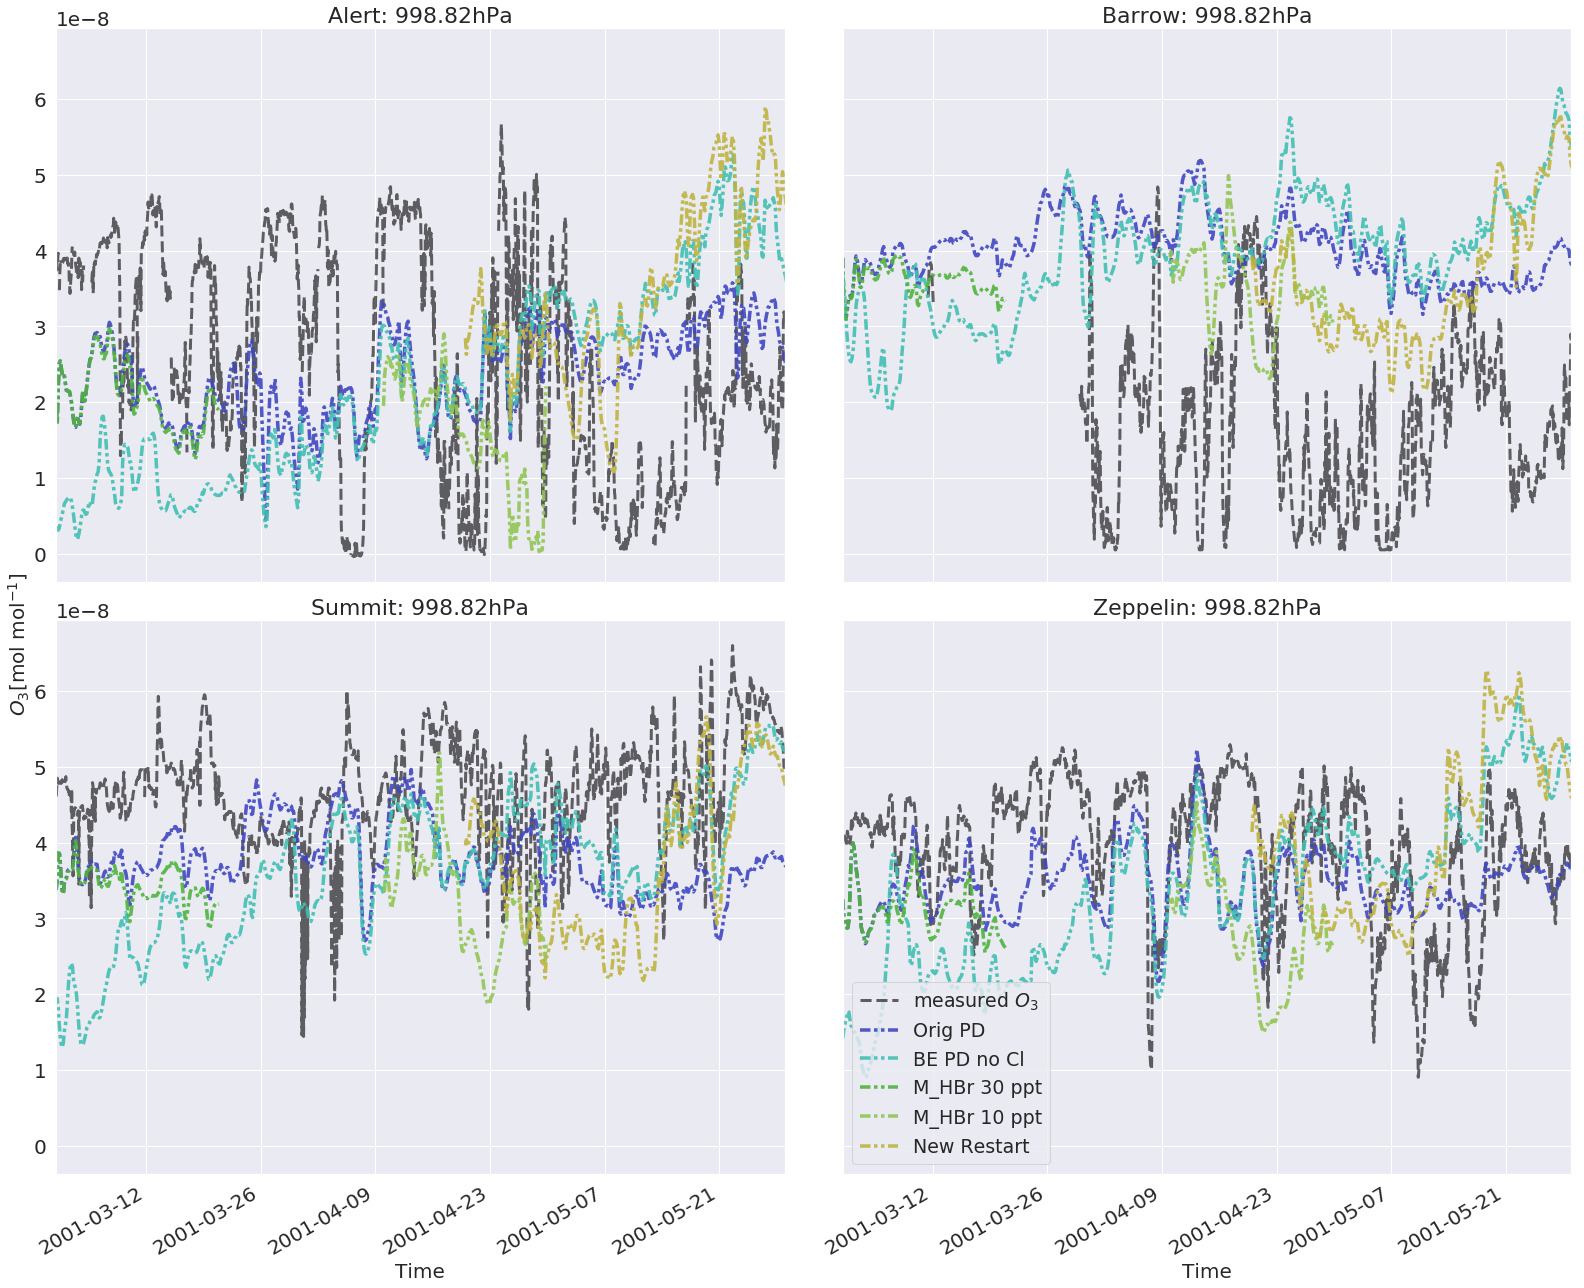
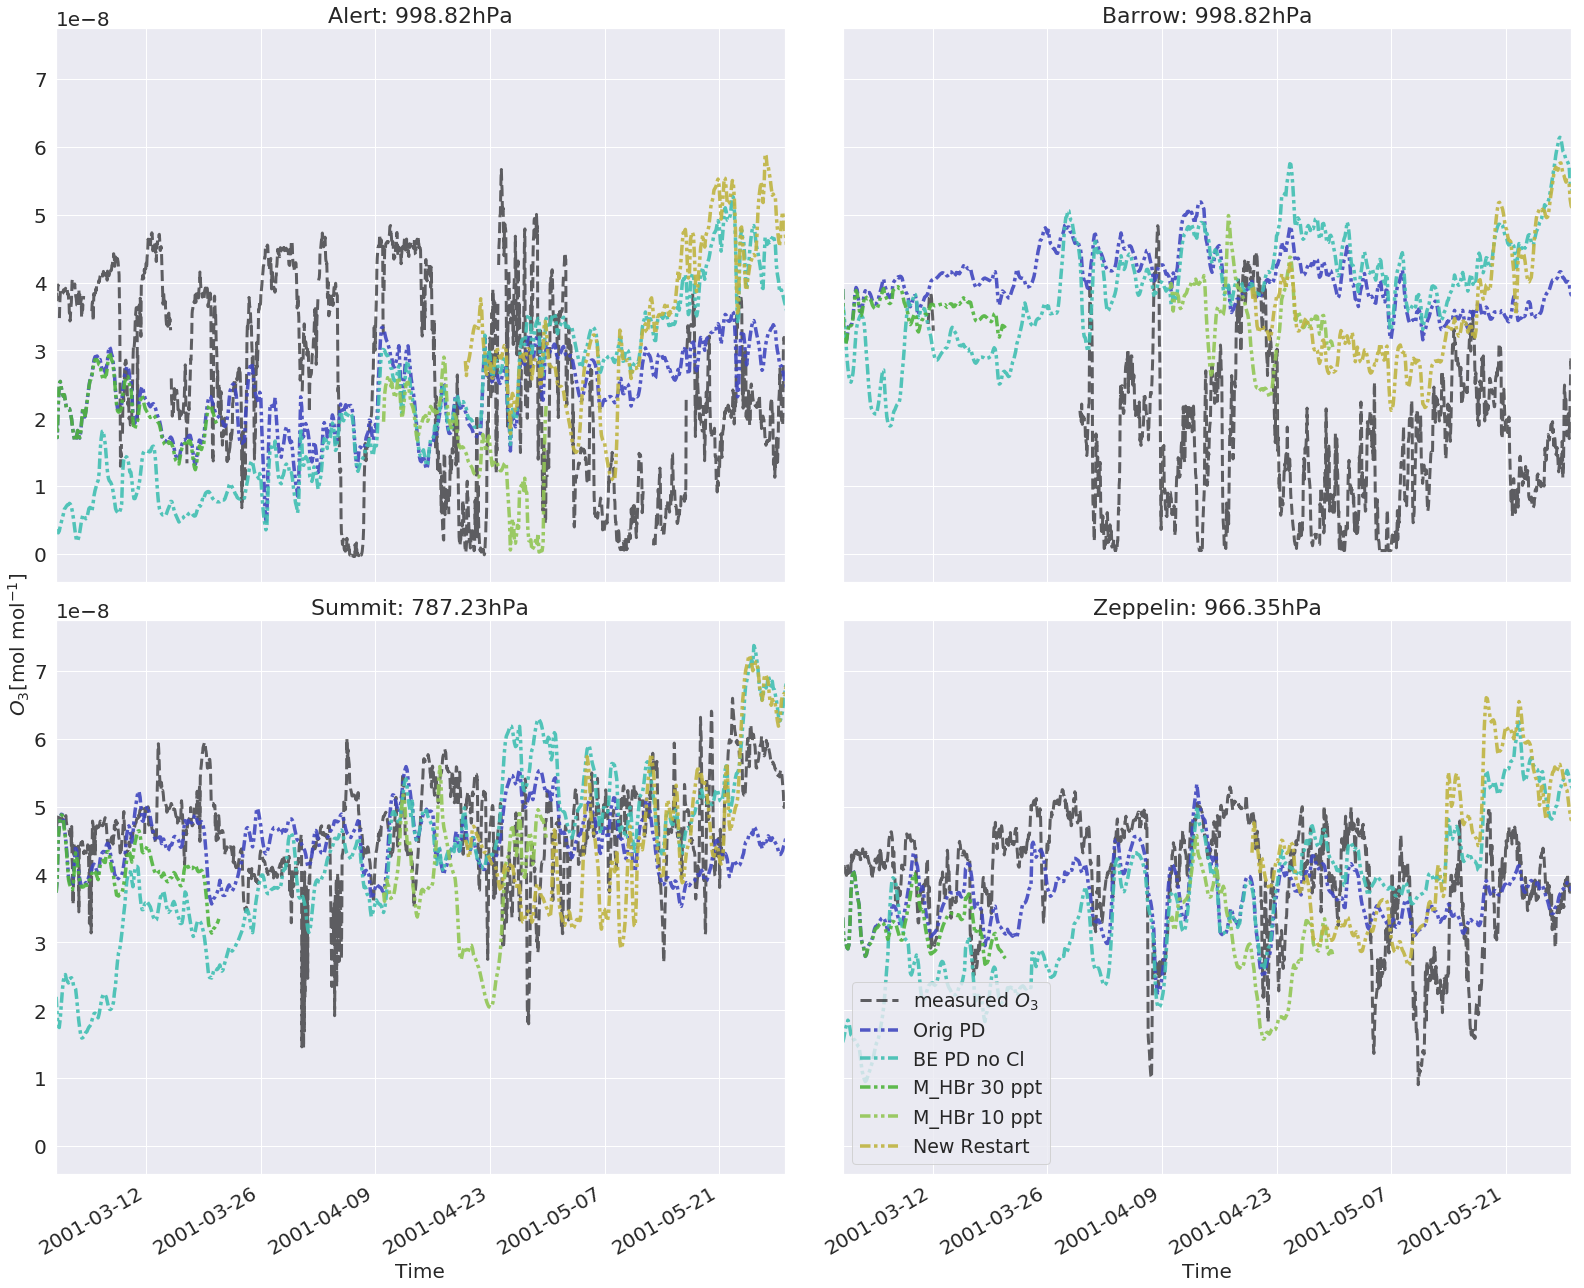
6/5/20

diff --git a/Chapter6_Results/Results.tex b/Chapter6_Results/Results.tex
@@ -63,7 +63,7 @@ Figure \ref{fig:vertHBr_noCl} shows the vertical column above the Alert, Barrow,
 
 \medskip
 
-In Figure \ref{fig:polarBrO_noCl}, the vertical column density for the lowermost $\sim$ 250 m is plotted. The column density is on the order $10^{5} molecules cm^{-2}$
+In Figure \ref{fig:polarBrO_noCl}, the vertical column density for the lowermost $\sim$ 250 m is plotted. The column density is on the order $10^{6}$ molecules cm$^{-2}$
 
 %In the vertical, the corresponding $\chem{Br_y}$ concentrations to Figure \ref{fig:test_RemoveHetReacts} are shown in Figures \ref{fig:vert_noAer_bry_2001}-\ref{fig:vert_noBr_bry_2001} for the four new branches, Branch \ref{def:BE_PD_noAerosol}-\ref{def:BE_PD_noBr}, respectively (The $\chem{Br_y}$-family is explained in Section \ref{sec:halogen_families_BryClxCly}). 
 
@@ -98,7 +98,7 @@ In Figure \ref{fig:polarBrO_noCl}, the vertical column density for the lowermost
 
 \subsection{Development of Branch \ref{def:BE_PD_noCl} Without Heterogeneous Chlorine Reactions}
 
-\subsubsection{Initializing Branch \ref{def:BE_PD_noCl} With a Higher \chem{HBr} Concentration}
+\subsubsection{Initializing Branch \ref{def:BE_PD_noCl} With a Higher \chem{HBr} Concentration}\label{sec:step2_result}
 
 In order to boost the concentration of \chem{HBr}, the concentration was hard-coded to 30 ppt ($= 8.059\cdot10^8 \text{molecules}cm^{-3}$ at $273.15 K$) and 10 ppt ($= 2.69\cdot10^8 \text{molecules}cm^{-3}$ at $273.15 K$), respectively, in the first sub-timestep of \texttt{pchemc\_ij.f90}. Further, a run initialized with a restart file from the 10 ppt run was performed in which the hard-coded concentration of \chem{HBr} was removed.
 
@@ -106,25 +106,95 @@ In order to boost the concentration of \chem{HBr}, the concentration was hard-co
 
 Figure \ref{fig:ozone_noCl_step2} contains results from different attempts to boost the \chem{HBr}-concentration, to see the effect on ozone depletion. The first test, in which the concentration of \chem{HBr} was constantly boosted by hard-coding to maintain 30 ppt (green line), results in mixing ratios of $\chem{O_3}$ comparable to the original CTM3-branch (blue line). In the second test, the \chem{HBr}-concentration was hard-coded to 10 ppt (light green line), which results in concentrations more comparable to the measurements. Lastly, the test in which the run was initiated with a restart file from the previous hard-coded test (\chem{HBr} concentration of 10 ppt) (yellow line) also maintains concentrations comparable in magnitude with the observations. All these tests were ran for a short amount of time. 
 
-
-\medskip
-
-Figure \ref{fig:vertHBr_newRestart} contains the resulting \chem{HBr}-column above Alert, Barrow, Summit and Zeppelin up to approximately $600 hPa$. The mixing ratio is on the order of $25 - 250$ ppt maximum. The higher concentrations appear to be constrained to the lower layers of the troposphere to various extents. In the lowest layer, Figure \ref{fig:polarHBr_newRestart} shows that the concentrations are on the order of $7.5\cdot10^{-7} - 1.5\cdot10^{-6} gm^{-3}$. 
-
-\medskip
-
-The polar \chem{BrO}-column depicted in Figure \ref{fig:polarBro_newRestart} shows a \acrshort{vcd} on the order of $10^6 \text{molecules } cm^{-2}$. 
-
 \input{Chapter6_Results/images/ozone_noCl_step2}
+
+\medskip
+
+Figure \ref{fig:vertHBr_newRestart} contains the resulting \chem{HBr}-column above Alert, Barrow, Summit and Zeppelin up to approximately $600$ hPa. The mixing ratio is on the order of $25 - 250$ ppt maximum. The higher concentrations appear to be constrained to the lower layers of the troposphere to various extents. In the lowest layer, Figure \ref{fig:polarHBr_newRestart} shows that the concentrations are on the order of $7.5\times10^{-7} - 1.5\times10^{-6}$gm$^{-3}$. Seen in relation with Figure \ref{fig:polarHOBr_newRestart}, \ref{fig:polarHBr_newRestart} is very anti-correlated. 
+
 
 \input{Chapter6_Results/images/vertHBr_newRestart}
 
 \input{Chapter6_Results/images/polarHBr_newRestart}
 
+\input{Chapter6_Results/images/polarHOBR_newRestart}
+
+\medskip
+
+The polar \chem{BrO}-column depicted in Figure \ref{fig:polarBro_newRestart} shows a \acrshort{vcd} on the order of $10^7 \text{molecules }$ cm$^{-2}$. 
+
+
 \input{Chapter6_Results/images/polarBrO_newRestart}
 
 
+\subsubsection{Hard-Coding Photodissociation and Adjusting the Henry'Law Coefficient}\label{sec:res_HDP_H}
 
+Figure \ref{fig:ozone_2001_step3} contains the modelled results from four new tests, whereas the original CTM3-run and the New Restart run was maintained from the previous section. Firstly, the Hard-coded P test was performed by hard-coding the photodissociation rates in \texttt{pchemc\_ij.f90}. In addition to this, two reactions were added in an attempt to better cycle the \chem{HOBr} and \chem{HBr} to avoid the anti-correlation seen in Figures \ref{fig:polarHBr_newRestart}-\ref{fig:polarHOBr_newRestart}:  
+
+\begin{reaction}
+    \chem{Br_2} + \chem{OH} \rightarrow \chem{HOBr} + \chem{Br}
+    \label{rqn:oh_br2}
+\end{reaction}
+
+
+\begin{reaction}
+    \chem{HBr} + \chem{OH} \rightarrow \chem{H_2O} + \chem{Br}
+    \label{rqn:oh_hbr}
+\end{reaction}
+
+The hard-coded photodissociation rates had not previously calculated for Reactions \ref{R:18}, \ref{R:20} and \ref{R:12}. These were previously set to be solved by the fast-JX method (see Section \ref{sec:CTM3_photochemistry}), but this had not worked. Instead, these were hard-coded as was done previously (by \cite{Susanne}) for Reactions \ref{R:19} and \ref{R:1}. The photodissociation rates were set to: 
+
+\begin{itemize}
+    \item $3\cdot10^{-4} s^{-1}$ for Reaction \ref{R:18} (value from \cite{CAO})
+    \item $0.014 s^{-1}$ for Reaction \ref{R:20}(value from \cite{CAO})
+    \item $0.05\cdot10^{-8} s^{-1}$ for Reaction \ref{R:12} (value from \cite{Papanastasiou2013}, Arctic spring dissociation rate, Figure 2, p. 3022)
+\end{itemize}
+
+
+%Testen viser bedring, men \chem{HBr} er fortsatt altfor høy- for treig våtavsetning? 
+
+In the subsequent tests, the hard-coded photodissociation rates were included. These were concerning the Henry-coefficient (see Section \ref{sec:wet_dep_henrys_law}) which was initially implemented with the wrong units. The New H - low test was performed with: 
+
+
+\begin{itemize}
+    \item \chem{HBr}: $7.2\cdot 10^{-1} [M/amt]$, $6100 K$ (Taken from: \cite{Chameides1992})
+    \item \chem{HCl}: $1.9\cdot10^1 [M/atm]$, $600 K$ (Taken from: \cite{dean1999})
+\end{itemize}
+
+The New H- high test was performed with:  
+
+\begin{itemize}
+    \item \chem{HBr}: $2.5 \cdot 10^{1} [M/amt]$, $370 K$ (Taken from: \cite{dean1999})
+    \item \chem{HCl}: $1.9\cdot10^1 [M/atm]$, $600 K$ (Taken from: \cite{dean1999})
+\end{itemize}
+
+Finally, the latter was tested with a higher resolution (HTWO). 
+
+\medskip
+
+Figure \ref{fig:ozone_2001_step3} shows that the new tests ozone produce a lower mixing ratio than both the original CTM3 and the New Restart-test from the previous section. They also produce lower ozone concentrations at the stations compared to measurements. 
+
+%Fin ODE klokka 21 den 29/3! Høye Br og BrO og lav ozon! (fil 88) 
+
+
+\input{Chapter6_Results/images/ozone_2001_step3}
+
+\medskip
+
+\ref{fig:vertHBr_HFOUR_step3} and \ref{fig:vertHBr_HTWO_step3} contains the vertical column of the \chem{HBr} mixing ratio at \texttt{HFOUR} and \texttt{HTWO} resolution, respectively. The mixing ratio remains around $3\times10^{-10}$ mol mol$^{-1} \sim 300 ppt$ for both the tests. Likewise, Figures \ref{fig:polarHBr_HFOUR_step3}-\ref{fig:polarHBr_HTWO_step3} contains concentrations of \chem{HBr} on the order of $6\times10^{-6} $g m$^{-3}$
+
+\input{Chapter6_Results/images/vertHBr_HFOUR_step3}
+\input{Chapter6_Results/images/vertHBr_HTWO_step3}
+
+\input{Chapter6_Results/images/polarHBr_HFOUR_step3}
+\input{Chapter6_Results/images/polarHBr_HTWO_step3}
+
+\medskip
+
+
+
+\input{Chapter6_Results/images/polarBrO_HFOUR_step3}
+\input{Chapter6_Results/images/polarBrO_HTWO_step3}
 
 %\subsubsection{Changing $L_{mix}$ in Reaction \ref{R:7}}
 
@@ -153,69 +223,34 @@ The polar \chem{BrO}-column depicted in Figure \ref{fig:polarBro_newRestart} sho
 
 %\subsubsection{Lmix = 100, with new restart file}
 
-C3RUN\_BE\_HFOUR\_HBr10ppt\_May
+%C3RUN\_BE\_HFOUR\_HBr10ppt\_May
 
-Figur med HOBr og HBr - antikorrelert. Null effekt på ozon, hot spots med Br, BrO og Br2. 
+%Figur med HOBr og HBr - antikorrelert. Null effekt på ozon, hot spots med Br, BrO og Br2. 
 
-The anticorrelation of \chem{HOBr} and \chem{HBr} indicates that \chem{HOBr} is titrated from the system, leaving hot spots of \chem{HBr}. 
+%The anticorrelation of \chem{HOBr} and \chem{HBr} indicates that \chem{HOBr} is titrated from the system, leaving hot spots of \chem{HBr}. 
 
 %\subsubsection{Lmix = 50, with new restart file}
 
-Still anti-correlation between \chem{HOBr} and \chem{HBr}. Maybe a bit less $\chem{O_3}$? 
+%Still anti-correlation between \chem{HOBr} and \chem{HBr}. Maybe a bit less $\chem{O_3}$? 
 
-vd = 0.0074 
+%vd = 0.0074 
 
-C3RUN\_BE\_HFOUR\_HBr10ppt\_Lmix50\_May
+%C3RUN\_BE\_HFOUR\_HBr10ppt\_Lmix50\_May
 
-\subsubsection{Lmix = 25, with new restart file}
+%\subsubsection{Lmix = 25, with new restart file}
 
-vd = 0.00824
+%vd = 0.00824
 
-C3RUN\_BE\_HFOUR\_HBr10ppt\_Lmix25\_May
-
-
-\subsubsection{Lmix = 100, cycling of \chem{HOBr} and \chem{HBr} and hard-coded photodissociation rates}
-
-C3RUN\_BE\_HFOUR\_HBr10ppt\_Lmix100\_ohbr2 - test run with the reaction: 
-
-\begin{reaction}
-    \chem{Br_2} + \chem{OH} \rightarrow \chem{HOBr} + \chem{Br}
-    \label{rqn:oh_br2}
-\end{reaction}
-
-C3RUN\_BE\_HFOUR\_HDP\_MarchMay - long run with the reaction: 
-
-\begin{reaction}
-    \chem{HBr} + \chem{OH} \rightarrow \chem{H_2O} + \chem{Br}
-    \label{rqn:oh_hbr}
-\end{reaction}
-
-As well as hard-coded photodissociation rates as it turned out the rates were not previously calculated for Reactions \ref{R:18}, \ref{R:20} and \ref{R:12}. These were previously set to be solved by the fast-JX method (see Section \ref{sec:CTM3_photochemistry}), but this had not worked. Instead, these were hard-coded as was done previously (by \cite{Susanne}) for Reactions \ref{R:19} and \ref{R:1}. The photodissociation rates were set to: 
-
-\begin{itemize}
-    \item $3\cdot10^{-4} s^{-1}$ for Reaction \ref{R:18} (value from \cite{CAO})
-    \item $0.014 s^{-1}$ for Reaction \ref{R:20}(value from \cite{CAO})
-    \item $0.05\cdot10^{-8} s^{-1}$ for Reaction \ref{R:12} (value from \cite{Papanastasiou2013}, Arctic spring dissociation rate, Figure 2, p. 3022)
-\end{itemize}
+%C3RUN\_BE\_HFOUR\_HBr10ppt\_Lmix25\_May
 
 
-Testen viser bedring, men \chem{HBr} er fortsatt altfor høy- for treig våtavsetning? 
+%\subsubsection{Lmix = 100, cycling of \chem{HOBr} and \chem{HBr} and hard-coded photodissociation rates}
 
-\subsubsection{Lmix = 100, new Henry's law constants for \chem{HBr} and \chem{HCl}}\label{sec:new_henrys_law}
+%C3RUN\_BE\_HFOUR\_HBr10ppt\_Lmix100\_ohbr2 - test run with the reaction: 
 
-New values for Henry's law constants were applied to fix the high concentrations seen in \chem{HBr}. The values were taken from \cite{dean1999}:
+%\subsubsection{Test at HTWO}
 
-\begin{itemize}
-    \item \chem{HBr}: $2.5 \cdot 10^{1} [M/amt]$, $370 K$
-    \item \chem{HCl}: $1.9\cdot10^1 [M/atm]$, $600 K$ 
-\end{itemize}
-
-Fin ODE klokka 21 den 29/3! Høye Br og BrO og lav ozon! (fil 88) 
-
-
-\subsubsection{Test at HTWO}
-
-This was with both hard-coded photodissosiation rates and higher Henry coefficient C3RUN\_BE\_HTWO\_HX\_HDP\_MarchApril
+%This was with both hard-coded photodissosiation rates and higher Henry coefficient C3RUN\_BE\_HTWO\_HX\_HDP\_MarchApril
 
 \section{Comparison between the PD- and PI-branches}
 

diff --git a/Chapter6_Results/images/polarBrO_newRestart.tex b/Chapter6_Results/images/polarBrO_newRestart.tex
@@ -1,6 +1,6 @@
 \begin{figure}[h]
     \centering
     \includegraphics[width=\linewidth]{Chapter6_Results/images/polarBro_newRestart.png}
-    \caption{Vertical column density ($molecules cm^{-2}$) of \chem{BrO} in the lowermost $\sim 250 m$ at 12:00 and 00:00 (UTC) on the 20th, 21st and 22nd of April, 2001. The result is from Branch \ref{def:BE_PD_noCl} initialized with a new restart file with a \chem{HBr} concentration of 10 ppt. The red dots are the positions of the stations with observations in 2001 (see the map in Figure \ref{fig:stns} for reference)}
+    \caption{Vertical column density ($molecules cm^{-2}$) of \chem{BrO} in the lowermost $\sim 250 m$ at 18:00 and 06:00 (UTC) on the  2nd, 3rd and 4th of May, 2001. The result is from Branch \ref{def:BE_PD_noCl} initialized with a new restart file with a \chem{HBr} concentration of 10 ppt. The red dots are the positions of the stations with observations in 2001 (see the map in Figure \ref{fig:stns} for reference)}
     \label{fig:polarBro_newRestart}
 \end{figure}

diff --git a/Chapter6_Results/images/polarHBr_newRestart.tex b/Chapter6_Results/images/polarHBr_newRestart.tex
@@ -1,6 +1,6 @@
 \begin{figure}[h]
     \centering
     \includegraphics[width=\linewidth]{Chapter6_Results/images/polarHBr_newRestart.png}
-    \caption{Concentration ($g m^{-3}$) of \chem{HBr} in the first model layer the Arctic at 12:00 and 00:00 (UTC) of the 20th, 21st and 22nd of April, 2001. The result is from Branch \ref{def:BE_PD_noCl} initialized with a new restart file with a \chem{HBr} concentration of 10 ppt. The red dots are the positions of the stations with observations in 2001 (see the map in Figure \ref{fig:stns} for reference)}
+    \caption{Concentration ($g m^{-3}$) of \chem{HBr} in the first model layer the Arctic at 18:00 and 06:00 (UTC) of the 2nd, 3rd and 4th of May, 2001. The result is from Branch \ref{def:BE_PD_noCl} initialized with a new restart file with a \chem{HBr} concentration of 10 ppt. The red dots are the positions of the stations with observations in 2001 (see the map in Figure \ref{fig:stns} for reference)}
     \label{fig:polarHBr_newRestart}
 \end{figure}

diff --git a/Chapter6_Results/images/ozone_2001_step3.tex b/Chapter6_Results/images/ozone_2001_step3.tex
@@ -1,0 +1,6 @@
+\begin{figure}[ht]
+    \centering
+    \includegraphics[width=\linewidth]{Chapter6_Results/images/ozone_2001_step3.png}
+    \caption{Ozone measurements (black line) and model results from the original CTM3 (blue line) (these two are the same as in Figure \ref{fig:test_RemoveHetReacts}), test with new restart file from Section \ref{sec:step2_result} (orange line), hard-coded photodissociation rates (green line), new (low) Henry's law constant of $7.2\times10^{-1} M atm ^{-1}$ and $6100 K$ (pink line), new (high) Henry's law constant of $2.5\times10^{1} M atm ^{-1}$ and $370 K$ (purple line) and the latter ran at HTWO resolution (brown line) at the four different stations, Alert (top left), Barrow (top right), Summit (lower left) and Zeppelin (lower right) with available measurements in 2001. Model results are taken from the first model level at $998.82 hPa$. PD = present day, P = photolysis rate, H = Henry's Law}
+    \label{fig:ozone_2001_step3}
+\end{figure}

diff --git a/Chapter6_Results/images/vertHBr_newRestart.tex b/Chapter6_Results/images/vertHBr_newRestart.tex
@@ -1,6 +1,6 @@
 \begin{figure}[h]
     \centering
     \includegraphics[width=\linewidth]{Chapter6_Results/images/vertHBr_newRestart.png}
-    \caption{Mixing ratio ($mol mol^{-1}$) of \chem{HBr} in the model layers up to $\sim 600 hPa$ at the four different stations Alert (top left), Barrow (top right), Zeppelin (lower left) and Summit (lower right) in April, 2001. The result is from Branch \ref{def:BE_PD_noCl} initialized with a new restart file with a \chem{HBr} concentration of 10 ppt}
+    \caption{Mixing ratio ($mol mol^{-1}$) of \chem{HBr} in the model layers up to $\sim 600 hPa$ at the four different stations Alert (top left), Barrow (top right), Zeppelin (lower left) and Summit (lower right) in April-May, 2001. The result is from Branch \ref{def:BE_PD_noCl} initialized with a new restart file with a \chem{HBr} concentration of 10 ppt}
     \label{fig:vertHBr_newRestart}
 \end{figure}

diff --git a/Chapter6_Results/images/vertHBr_noCl.tex b/Chapter6_Results/images/vertHBr_noCl.tex
@@ -1,6 +1,6 @@
 \begin{figure}[ht]
     \centering
     \includegraphics[width = \linewidth]{Chapter6_Results/images/vertHBr_noCl.png}
-    \caption{Mixing ratio ($mol mol^{-1}$) of \chem{HBr} in the model layers up to $\sim 600 hPa$ at the four different stations Alert (top left), Barrow (top right), Zeppelin (lower left) and Summit (lower right) in April, 2001. The result is from Branch \ref{def:BE_PD_noCl}}
+    \caption{Mixing ratio ($mol mol^{-1}$) of \chem{HBr} in the model layers up to $\sim 600 hPa$ at the four different stations Alert (top left), Barrow (top right), Zeppelin (lower left) and Summit (lower right) in April-May, 2001. The result is from Branch \ref{def:BE_PD_noCl}}
     \label{fig:vertHBr_noCl}
 \end{figure}

diff --git a/Chapter6_Results/images/polarBrO_HFOUR_step3.tex b/Chapter6_Results/images/polarBrO_HFOUR_step3.tex
@@ -1,0 +1,6 @@
+\begin{figure}[h]
+    \centering
+    \includegraphics[width=\linewidth]{Chapter6_Results/images/polarBrO_HFOUR_step3.png}
+    \caption{Vertical column density ($molecules cm^{-2}$) of \chem{BrO} in the lowermost $\sim 250 m$ at 18:00 and 06:00 (UTC) of the 27th, 28th and 29th of April, 2001. The result is from the test including hard-coded photodissociation rates as well as a new (high) Henry-coefficient at HFOUR resolution. The red dots are the positions of the stations with observations in 2001 (see the map in Figure \ref{fig:stns} for reference)}
+    \label{fig:polarBrO_HFOUR_step3}
+\end{figure}

diff --git a/Chapter6_Results/images/polarBrO_HTWO_step3.tex b/Chapter6_Results/images/polarBrO_HTWO_step3.tex
@@ -1,0 +1,6 @@
+\begin{figure}[h]
+    \centering
+    \includegraphics[width=\linewidth]{Chapter6_Results/images/polarBrO_HTWO_step3.png}
+    \caption{Vertical column density ($molecules cm^{-2}$) of \chem{BrO} in the lowermost $\sim 250 m$ at 18:00 and 06:00 (UTC) of the 27th, 28th and 29th of April, 2001. The result is from the test including hard-coded photodissociation rates as well as a new (high) Henry-coefficient at HFOUR resolution. The red dots are the positions of the stations with observations in 2001 (see the map in Figure \ref{fig:stns} for reference)}
+    \label{fig:polarBrO_HTWO_step3}
+\end{figure}

diff --git a/Chapter6_Results/images/polarHBr_HFOUR_step3.tex b/Chapter6_Results/images/polarHBr_HFOUR_step3.tex
@@ -1,0 +1,6 @@
+\begin{figure}[h]
+    \centering
+    \includegraphics[width=\linewidth]{Chapter6_Results/images/polarHBr_HFOUR_step3.png}
+    \caption{Concentration ($g m^{-3}$) of \chem{HBr} in the first model layer the Arctic at 18:00 and 06:00 (UTC) of the 27th, 28th and 29th of April, 2001. The result is from the test including hard-coded photodissociation rates as well as a new (high) Henry-coefficient at HFOUR resolution. The red dots are the positions of the stations with observations in 2001 (see the map in Figure \ref{fig:stns} for reference)}
+    \label{fig:polarHBr_HFOUR_step3}
+\end{figure}

diff --git a/Chapter6_Results/images/polarHBr_HTWO_step3.tex b/Chapter6_Results/images/polarHBr_HTWO_step3.tex
@@ -1,0 +1,6 @@
+\begin{figure}[h]
+    \centering
+    \includegraphics[width=\linewidth]{Chapter6_Results/images/polarHBr_HTWO_step3.png}
+    \caption{Concentration ($g m^{-3}$) of \chem{HBr} in the first model layer the Arctic at 18:00 and 06:00 (UTC) of the 27th, 28th and 29th of April, 2001. The result is from the test including hard-coded photodissociation rates as well as a new (high) Henry-coefficient at HTWO resolution. The red dots are the positions of the stations with observations in 2001 (see the map in Figure \ref{fig:stns} for reference)}
+    \label{fig:polarHBr_HTWO_step3}
+\end{figure}

diff --git a/Chapter6_Results/images/polarHOBR_newRestart.tex b/Chapter6_Results/images/polarHOBR_newRestart.tex
@@ -1,0 +1,6 @@
+\begin{figure}[h]
+    \centering
+    \includegraphics[width=\linewidth]{Chapter6_Results/images/polarHOBr_newRestart.png}
+    \caption{Concentration ($g m^{-3}$) of \chem{HOBr} in the first model layer the Arctic at 18:00 and 06:00 (UTC) of the 2nd, 3rd and 4th of May, 2001. The result is from Branch \ref{def:BE_PD_noCl} initialized with a new restart file with a \chem{HBr} concentration of 10 ppt. The red dots are the positions of the stations with observations in 2001 (see the map in Figure \ref{fig:stns} for reference)}
+    \label{fig:polarHOBr_newRestart}
+\end{figure}

diff --git a/Chapter6_Results/images/vertHBr_HFOUR_step3.tex b/Chapter6_Results/images/vertHBr_HFOUR_step3.tex
@@ -1,0 +1,6 @@
+\begin{figure}[h]
+    \centering
+    \includegraphics[width=\linewidth]{Chapter6_Results/images/vertHBr_HFOUR_step3.png}
+    \caption{Mixing ratio ($mol mol^{-1}$) of \chem{HBr} in the model layers up to $\sim 600 hPa$ at the four different stations Alert (top left), Barrow (top right), Zeppelin (lower left) and Summit (lower right) in April, 2001. The result is from the test including hard-coded photodissociation rates as well as a new (high) Henry-coefficient at HFOUR resolution}
+    \label{fig:vertHBr_HFOUR_step3}
+\end{figure}
